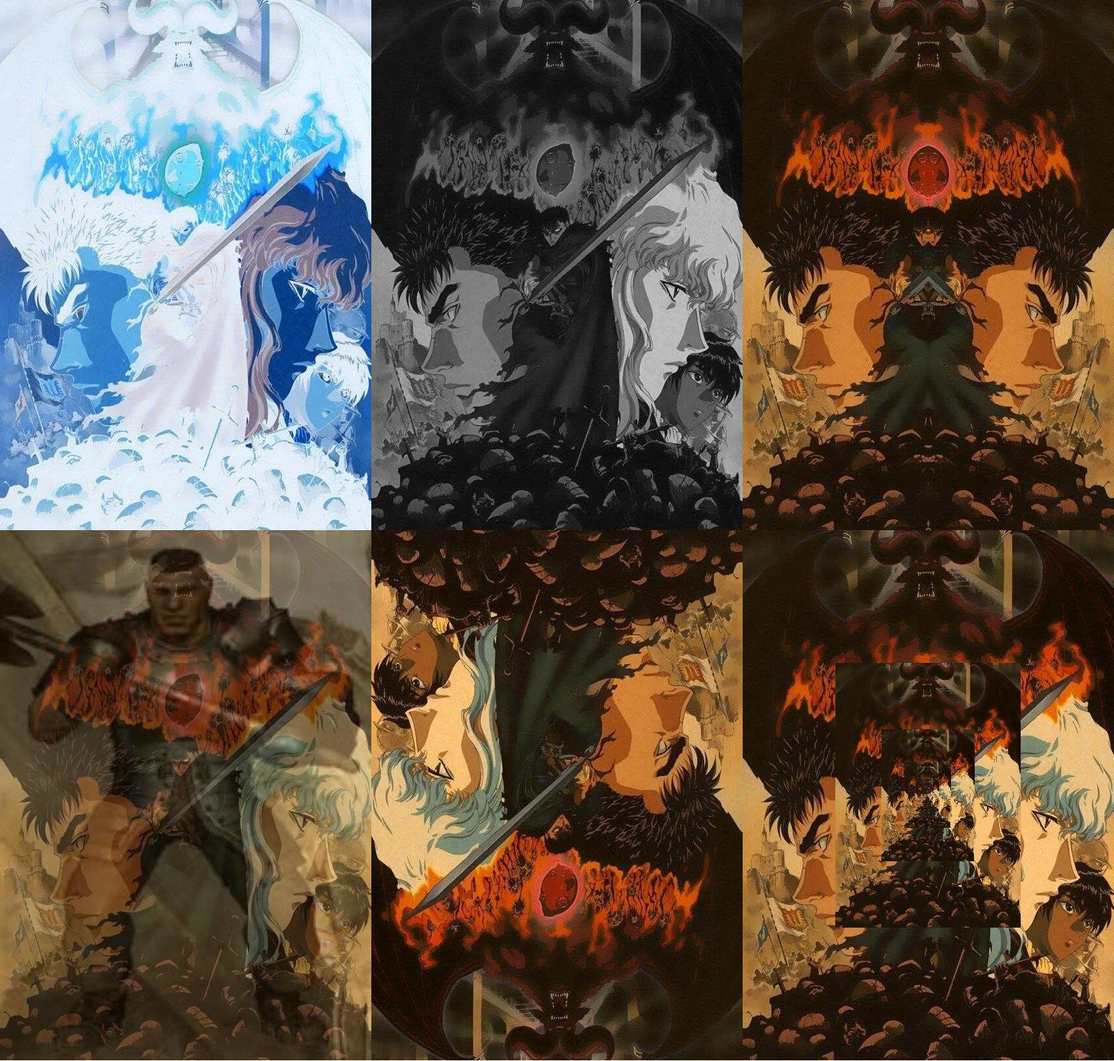
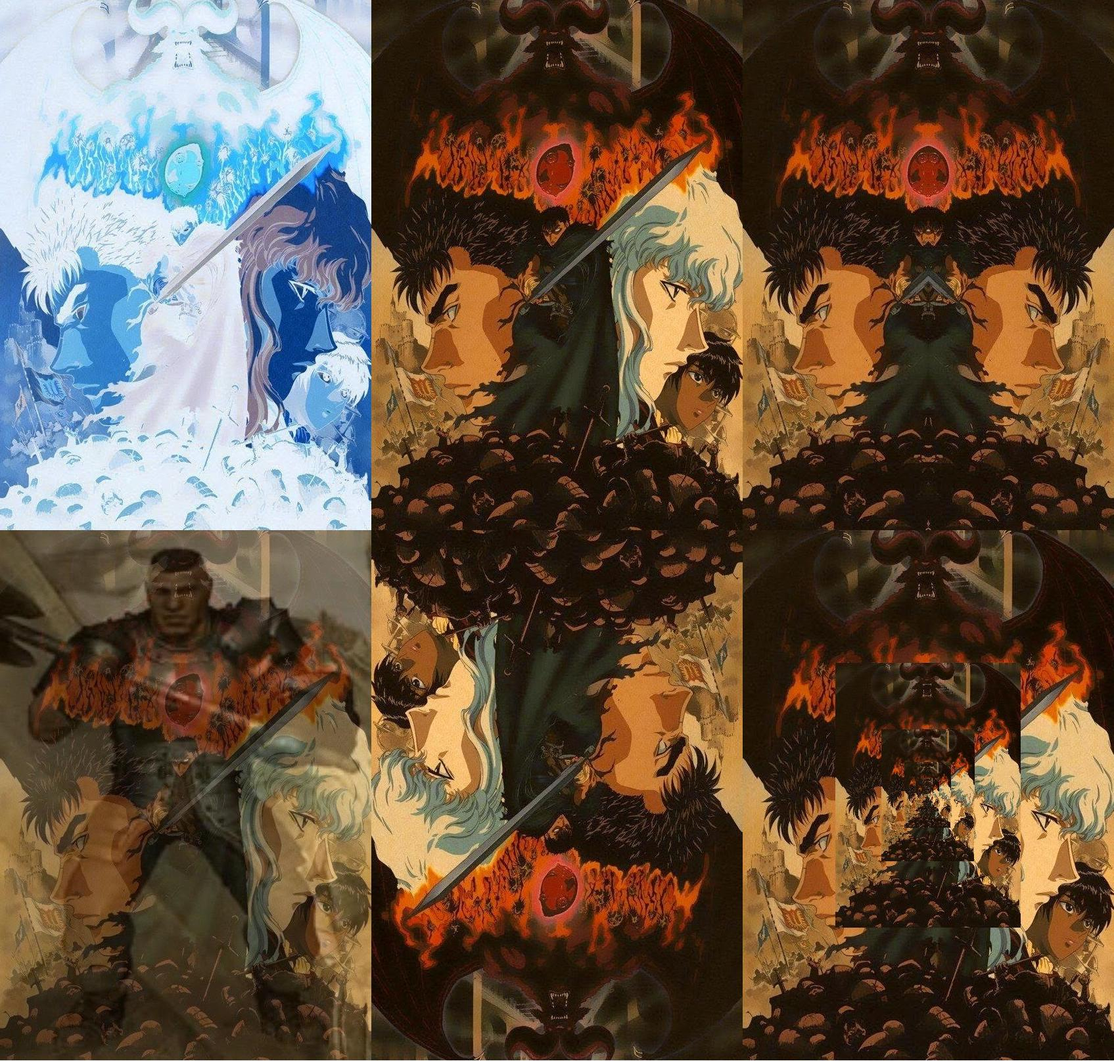
put final collehge in folder wiht original imaghe

Changed region(s): [[0.3068, 0.0, 0.6749, 0.4954], [0.6136, 0.0, 0.6442, 0.031]]

diff --git a/ColorLabs17/PosterBoardProject.java b/ColorLabs17/PosterBoardProject.java
@@ -21,16 +21,17 @@ public class PosterBoardProject
         Picture POverlap = new Picture("images\\BerserkOL.jpg");
         Picture rotated = new Picture("images\\BerserkR180.jpg");
         Picture Recursive = new Picture("images\\BerserkRS.jpg");
+        Picture OG = new Picture("images\\Berserk.jpg");
         
         copytoCanvas(ColorInvert,  canvas, 0, 0);
-        copytoCanvas(GreyScale,  canvas, GreyScale.getWidth(), 0);
+        copytoCanvas(OG,  canvas, OG.getWidth(), 0);
         copytoCanvas(MirroVertical,  canvas, (MirroVertical.getWidth()*2), 0);
         copytoCanvas(POverlap,  canvas, 0, POverlap.getHeight());
         copytoCanvas(rotated,  canvas, rotated.getWidth(), rotated.getHeight());
         copytoCanvas(Recursive,  canvas, (Recursive.getWidth()*2), Recursive.getHeight());
         
         canvas.explore();
-        //canvas.write("images\\FinalCallege.jpg");
+        canvas.write("images\\FinalCallege.jpg");
     }
     
     
